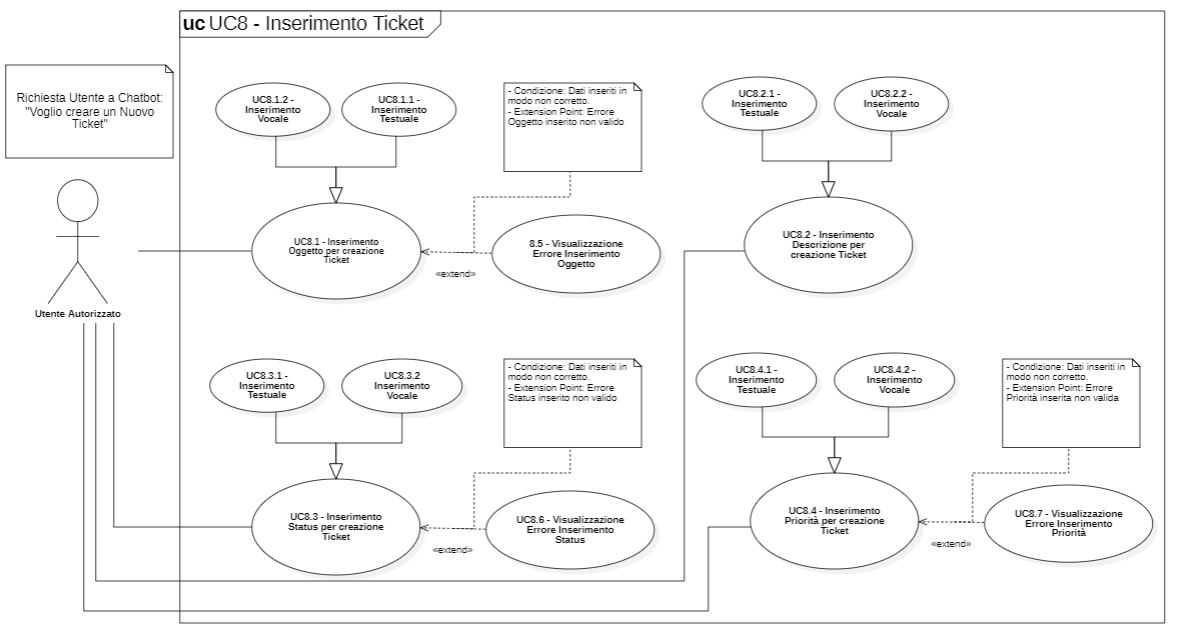
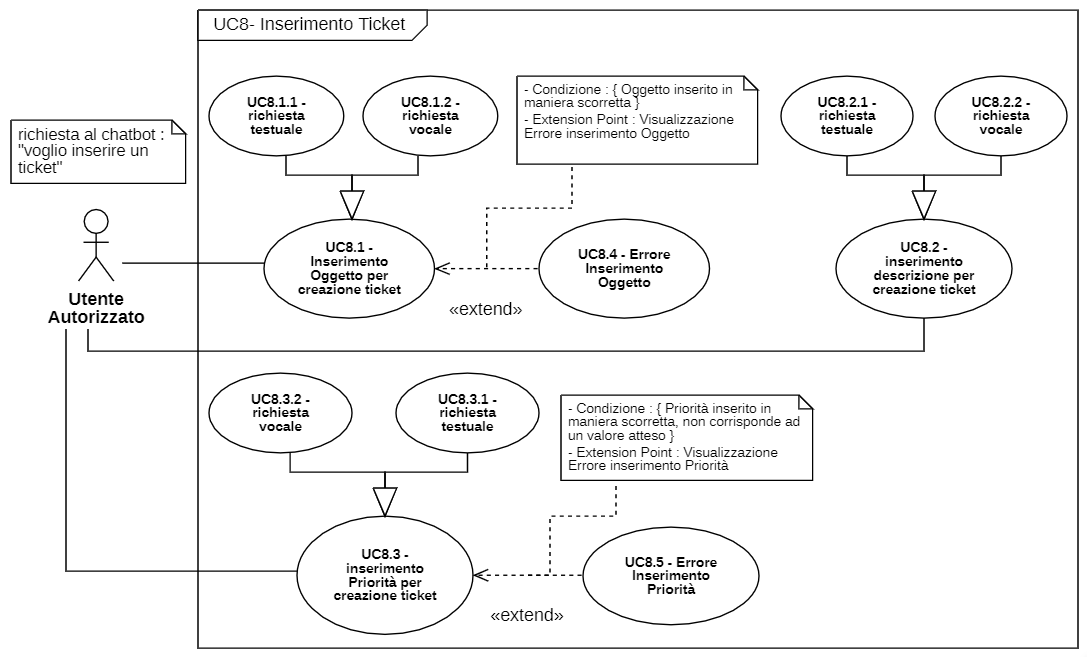
Prime Modifiche Casi d'Uso #19

diff --git a/section/casiduso_UC8.tex b/section/casiduso_UC8.tex
@@ -19,14 +19,11 @@
 		\item Utente inserisce un messaggio del tipo "Voglio creare un nuovo Ticket";
 		\item Chatbot chiede all'utente l'oggeto del \glossario{ticket}; (UC8.1)
     \item Chatbot chiede all'utente la descrizione; (UC8.2)
-		\item Chatbot chiede all'utente lo status; (UC8.3)
-		\item Chatbot chiede all'utente la priorità. (UC8.4)
+		\item Chatbot chiede all'utente la priorità. (UC8.3)
 	\end{enumerate}
-	\item \textbf{Estensioni}: \begin{itemize}
-		\item Chatbot comunica che non è in grado di interpretare il comando; (UC2)
-		\item Chatbot comunica che l'azione non è andata a buon fine. (UC10)
-	\end{itemize}
 \end{itemize}
+
+
 \subsubsection{UC8.1 - Inserimento Oggetto per creazione \glossario{ticket}}
 \begin{itemize}
 	\item \textbf{Identificativo}: UC8.1
@@ -43,9 +40,48 @@
 		\item Chatbot interagisce con l'utente: "Indicare l'oggetto del ticket";
 		\item Utente fornisce l'oggetto per la creazione del ticket tramite testo (UC8.1.1) o input vocale (UC8.1.2). 
 	\end{enumerate}
-	\item \textbf{Estensione}: Utente non ha inserito l'oggetto in maniera idonea per il chatbot. (UC8.5)
-		
+	\item \textbf{Estensione}: Utente non ha inserito l'oggetto in maniera idonea per il chatbot. (UC8.4)		
 \end{itemize}
+
+\paragraph{UC8.1.1 - Richiesta Testuale}
+\begin{itemize}
+   \item \textbf{Identificativo}: UC8.1.1
+   \item \textbf{Nome}: Richiesta testuale
+   \item \textbf{Descrizione grafica}: (approfondita in UC8)
+   \item \textbf{Attori}:
+   \begin{itemize} 
+       \item \textit{Primari}: utente autorizzato
+       \item \textit{Secondari}: non presenti
+   \end{itemize}
+       \item \textbf{Precondizione}: L'utente sta creando un ticket e gli è richiesto l'inserimento di un oggetto.
+       \item \textbf{Postcondizione}: L'utente comunica un oggetto e procede con la creazione del ticket. 
+    \item \textbf{Scenario principale}: 
+       \begin{itemize}
+           \item Il chatbot richiede l'inserimento di un oggetto;
+           \item l'utente inserisce testualmente un oggetto.
+       \end{itemize}
+\end{itemize}
+
+\paragraph{UC8.1.2 - Richiesta Vocale}
+\begin{itemize}
+   \item \textbf{Identificativo}: UC8.1.2
+   \item \textbf{Nome}: Richiesta Vocale
+   \item \textbf{Descrizione grafica}: (approfondita in UC8)
+   \item \textbf{Attori}:
+   \begin{itemize} 
+       \item \textit{Primari}: utente autorizzato
+       \item \textit{Secondari}: non presenti
+   \end{itemize}
+       \item \textbf{Precondizione}: L'utente sta creando un ticket e gli è richiesto l'inserimento di un oggetto.
+       \item \textbf{Postcondizione}: L'utente comunica un oggetto e procede con la creazione del ticket. 
+    \item \textbf{Scenario principale}: 
+       \begin{itemize}  
+        \item Il chatbot richiede l'inserimento di un oggetto;
+        \item l'utente inserisce vocalmente un oggetto.
+       \end{itemize}
+\end{itemize}
+
+
 \subsubsection{UC8.2 - Inserimento descrizione per creazione \glossario{ticket}}
 \begin{itemize}
 	\item \textbf{Identificativo}: UC8.2
@@ -63,27 +99,49 @@
 		\item Utente fornisce la descrizione per la creazione del ticket tramite testo (UC8.2.1) o input vocale (UC8.2.2).
 	\end{enumerate}
 	\end{itemize}
-\subsubsection{UC8.3 - Inserimento Status per creazione \glossario{ticket}}
+
+  \paragraph{UC8.2.1 - Richiesta Testuale}
+  \begin{itemize}
+     \item \textbf{Identificativo}: UC8.2.1
+     \item \textbf{Nome}: Richiesta testuale
+     \item \textbf{Descrizione grafica}: (approfondita in UC8)
+     \item \textbf{Attori}:
+     \begin{itemize} 
+         \item \textit{Primari}: utente autorizzato
+         \item \textit{Secondari}: non presenti
+     \end{itemize}
+         \item \textbf{Precondizione}: L'utente sta creando un ticket, ha inserito un oggetto e gli è richiesto l'inserimento di una descrizione.
+         \item \textbf{Postcondizione}: L'utente comunica una descrizione e procede con la creazione del ticket. 
+      \item \textbf{Scenario principale}: 
+         \begin{itemize}
+             \item Il chatbot richiede l'inserimento di una descrizione;
+             \item l'utente inserisce testualmente una descrizione.
+         \end{itemize}
+  \end{itemize}
+  
+  \paragraph{UC8.2.2 - Richiesta Vocale}
+  \begin{itemize}
+     \item \textbf{Identificativo}: UC8.2.2
+     \item \textbf{Nome}: Richiesta testuale
+     \item \textbf{Descrizione grafica}: (approfondita in UC8)
+     \item \textbf{Attori}:
+     \begin{itemize} 
+         \item \textit{Primari}: utente autorizzato
+         \item \textit{Secondari}: non presenti
+     \end{itemize}
+         \item \textbf{Precondizione}: L'utente sta creando un ticket, ha inserito un oggetto e gli è richiesto l'inserimento di una descrizione.
+         \item \textbf{Postcondizione}: L'utente comunica una descrizione e procede con la creazione del ticket. 
+      \item \textbf{Scenario principale}: 
+         \begin{itemize}  
+          \item Il chatbot richiede l'inserimento di una descrizione;
+          \item l'utente inserisce vocalmente una descrizione.
+         \end{itemize}
+  \end{itemize}
+
+
+  \subsubsection{UC8.3 - Inserimento priorità per creazione \glossario{ticket}}
 \begin{itemize}
 	\item \textbf{Identificativo}: UC8.3
-	\item \textbf{Nome}: Inserimento Status per creazione \glossario{ticket} 
-	\item \textbf{Attori}
-	\begin{itemize} 
-		\item \textit{Primari}: Utente autorizzato
-		\item \textit{Secondari}: Non presenti
-	\end{itemize}
-	\item \textbf{Descrizione}: L'utente sta eseguendo il procedimento di creazione di un nuovo \glossario{ticket}. Il chatbot richiede all'utente di inserire uno status.
-	\item \textbf{Precondizione}: l'utente ha comunicato al chatbot la descrizione del nuovo ticket.
-	\item \textbf{Postcondizione}: l'utente ha comunicato al chatbot lo status del nuovo ticket.
-	\item \textbf{Scenario principale}: \begin{enumerate}
-		\item Chatbot interagisce con l'utente: "Indicare lo status del ticket";
-		\item Utente fornisce lo status per la creazione del ticket tramite testo (UC8.3.1) o input vocale (UC8.3.2).
-	\end{enumerate}
-	\item \textbf{Estensione}: L'utente non ha inserito lo status in maniera idonea per il chatbot.  (UC8.6)
-\end{itemize}
-\subsubsection{UC8.4 - Inserimento priorità per creazione \glossario{ticket}}
-\begin{itemize}
-	\item \textbf{Identificativo}: UC8.4
 	\item \textbf{Nome}: Inserimento priorità per creazione \glossario{ticket}
 	\item \textbf{Attori}
 	\begin{itemize} 
@@ -91,17 +149,56 @@
 		\item \textit{Secondari}: Non presenti
 	\end{itemize}
 	\item \textbf{Descrizione}: L'utente sta eseguendo il procedimento di creazione di un nuovo \glossario{ticket}. Il chatbot richiede all'utente di assegnare una priorità.
-	\item \textbf{Precondizione}: l'utente ha comunicato al chatbot lo status del nuovo ticket.
+	\item \textbf{Precondizione}: l'utente ha comunicato al chatbot la priorità del nuovo ticket.
 	\item \textbf{Postcondizione}: l'utente ha comunicato al chatbot la priorità del nuovo ticket.
 	\item \textbf{Scenario principale}: \begin{enumerate}
 		\item Chatbot interagisce con l'utente: "Assegnare una priorità al ticket";
 		\item Utente assegna una priorità al ticket tramite testo (UC8.4.1) o input vocale (UC8.4.2).
 	\end{enumerate}
-	\item \textbf{Estensione}: L'utente non ha inserito la priorità in maniera idonea per il chatbot. (UC8.7)
+	\item \textbf{Estensione}: L'utente non ha inserito la priorità in maniera idonea per il chatbot. (UC8.5)
 \end{itemize}
-\subsubsection{UC8.5 - Visualizzazione errore inserimento oggetto}
+
+\paragraph{UC8.3.1 - Richiesta Testuale}
 \begin{itemize}
-	\item \textbf{Identificativo}: UC8.5
+   \item \textbf{Identificativo}: UC8.3.1
+   \item \textbf{Nome}: Richiesta testuale
+   \item \textbf{Descrizione grafica}: (approfondita in UC8)
+   \item \textbf{Attori}:
+   \begin{itemize} 
+       \item \textit{Primari}: utente autorizzato
+       \item \textit{Secondari}: non presenti
+   \end{itemize}
+       \item \textbf{Precondizione}: L'utente sta creando un ticket e gli è richiesto l'inserimento di una priorità.
+       \item \textbf{Postcondizione}: L'utente comunica una priorità e viene creato il ticket. 
+    \item \textbf{Scenario principale}: 
+       \begin{itemize}
+           \item Il chatbot richiede l'inserimento di una priorità;
+           \item l'utente inserisce testualmente una priorità.
+       \end{itemize}
+\end{itemize}
+
+\paragraph{UC8.3.2 - Richiesta Vocale}
+\begin{itemize}
+   \item \textbf{Identificativo}: UC8.3.2
+   \item \textbf{Nome}: Richiesta Vocale
+   \item \textbf{Descrizione grafica}: (approfondita in UC8)
+   \item \textbf{Attori}:
+   \begin{itemize} 
+       \item \textit{Primari}: utente autorizzato
+       \item \textit{Secondari}: non presenti
+   \end{itemize}
+   \item \textbf{Precondizione}: L'utente sta creando un ticket e gli è richiesto l'inserimento di una priorità.
+   \item \textbf{Postcondizione}: L'utente comunica una priorità e viene creato il ticket. 
+    \item \textbf{Scenario principale}: 
+       \begin{itemize}  
+        \item Il chatbot richiede l'inserimento di una priorità;
+        \item l'utente inserisce vocalmente una priorità.
+       \end{itemize}
+\end{itemize}
+
+\subsubsection{UC8.4 - Visualizzazione errore inserimento oggetto}
+\begin{itemize}
+	\item \textbf{Identificativo}: UC8.4
 	\item \textbf{Nome}: Visualizzazione errore inserimento oggetto 
 	\item \textbf{Attori}
 	\begin{itemize} 
@@ -115,26 +212,11 @@
 		\item Chatbot mostra all'utente che è avvenuto un errore tramite chat: "Oggetto inserito in maniera non idonea".
 		\end{enumerate}
 \end{itemize}
-\subsubsection{UC8.6 - Visualizzazione errore inserimento status}
+
+
+\subsubsection{UC8.5 - Visualizzazione errore inserimento priorità}
 \begin{itemize}
-	\item \textbf{Identificativo}: UC8.6
-	\item \textbf{Nome}: Visualizzazione errore inserimento status 
-	\item \textbf{Attori}
-	\begin{itemize} 
-		\item \textit{Primari}: Utente autorizzato
-		\item \textit{Secondari}: Non presenti
-	\end{itemize}
-	\item \textbf{Descrizione}: È avvenuto un errore nell'inserimento dello status. Il chatbot mostra l'errore all'utente.
-	\item \textbf{Precondizione}: L'utente sta eseguendo l'operazione di inserimento di un nuovo ticket. Lo status risulta essere inserito in un formato non valido. 
-	\item \textbf{Postcondizione}: Il chatbot mostra all'utente che lo status non è stato inserito in maniera idonea per il chatbot.
-	\item \textbf{Scenario principale}: 
-	\begin{enumerate}
-		\item Chatbot mostra all'utente che è avvenuto un errore tramite chat: "Status inserito in maniera non idonea". 
-	\end{enumerate}
-\end{itemize}
-\subsubsection{UC8.7 - Visualizzazione errore inserimento priorità}
-\begin{itemize}
-	\item \textbf{Identificativo}: UC8.7
+	\item \textbf{Identificativo}: UC8.5
 	\item \textbf{Nome}:  Visualizzazione errore inserimento priorità
 	\item \textbf{Attori}
 	\begin{itemize} 
@@ -148,4 +230,3 @@
 		\item Chatbot mostra all'utente che è avvenuto un errore tramite chat: "Priorità inserita in maniera non idonea".
 	\end{enumerate}
 \end{itemize}
-\newpage

diff --git a/section/casiduso_UC11.tex b/section/casiduso_UC11.tex
@@ -2,6 +2,14 @@
 \begin{itemize}
 	\item \textbf{Identificativo}: UC11
 	\item \textbf{Nome}: Annullamento Operazione
+  \item \textbf{Descrizione grafica}:
+\end{itemize}
+
+\begin{figure}[h]
+    \includegraphics[scale=1.20]{images/UC11.png} 
+    \caption{Descrizione grafica caso d'uso UC11}
+\end{figure}
+\begin{itemize}
 	\item \textbf{Attori}
 	\begin{itemize} 
 		\item \textit{Primari}: Utente autorizzato
@@ -11,7 +19,61 @@
 	\item \textbf{Precondizione}: L'utente ha richiesto un'operazione.
 	\item \textbf{Postcondizione}: Operazione non viene eseguita.
 	\item \textbf{Scenario principale}: \begin{enumerate}
-		\item Utente scrive in chat: "Annulla operazione";
+		\item Utente comunica al chatbot: "Annulla operazione";
 		\item Chatbot comunica: "Operazione annullata con successo".
 	\end{enumerate}
+  \item \textbf{Estensione}: L'operazione di annullamento non può essere eseguita. (UC11.2)
+\end{itemize}
+
+\paragraph{UC11.1.1 - Richiesta Testuale}
+\begin{itemize}
+   \item \textbf{Identificativo}: UC11.1.1
+   \item \textbf{Nome}: Richiesta testuale
+   \item \textbf{Descrizione grafica}: (approfondita in UC11)
+   \item \textbf{Attori}:
+   \begin{itemize} 
+       \item \textit{Primari}: utente autorizzato
+       \item \textit{Secondari}: non presenti
+   \end{itemize}
+       \item \textbf{Precondizione}: L'utente ha richiesto un'operazione.
+       \item \textbf{Postcondizione}: Operazione non viene eseguita. 
+    \item \textbf{Scenario principale}: 
+       \begin{itemize}
+        \item Utente scrive al chatbot: "Annulla operazione";
+        \item Chatbot risponde: "Operazione annullata con successo".
+       \end{itemize}
+\end{itemize}
+
+\paragraph{UC11.1.2 - Richiesta Vocale}
+\begin{itemize}
+   \item \textbf{Identificativo}: UC11.1.2
+   \item \textbf{Nome}: Richiesta testuale
+   \item \textbf{Descrizione grafica}: (approfondita in UC1)
+   \item \textbf{Attori}:
+   \begin{itemize} 
+       \item \textit{Primari}: utente autorizzato
+       \item \textit{Secondari}: non presenti
+   \end{itemize}
+       \item \textbf{Precondizione}: L'utente ha richiesto un'operazione.
+       \item \textbf{Postcondizione}: Operazione non viene eseguita. 
+    \item \textbf{Scenario principale}: 
+       \begin{itemize}
+        \item Utente comunica vocalmente al chatbot: "Annulla operazione";
+        \item Chatbot comunica: "Operazione annullata con successo".
+       \end{itemize}
+\end{itemize}
+
+\subsubsection{UC11.2 - Errore Annullamento Operazione}
+\begin{itemize}
+	\item \textbf{Identificativo}: UC11.2
+	\item \textbf{Nome}: Errore Annullamento Operazione 
+	\item \textbf{Attori}
+	\begin{itemize} 
+		\item \textit{Primari}: Utente autorizzato
+		\item \textit{Secondari}: Non presenti
+	\end{itemize}
+	\item \textbf{Descrizione}: L'utente vuole annullare un'operazione.
+	\item \textbf{Precondizione}: L'utente richiede di annullare un'operazione.
+	\item \textbf{Postcondizione}: Viene visualizzato un errore di impossibilità di annullare l'operazione.
+	\item \textbf{Scenario principale}: Utente comunica la volontà di annullare un'operazione ma questa viene negata.
 \end{itemize}

diff --git a/section/casiduso_UC10.tex b/section/casiduso_UC10.tex
@@ -1,16 +1,1 @@
 \subsection{UC10 - Visualizzazione errore impossibile completare l'azione}
-\begin{itemize}
-	\item \textbf{Identificativo}: UC10
-	\item \textbf{Nome}:  Visualizzazione errore impossibile completare l'azione
-	\item \textbf{Attori}
-	\begin{itemize} 
-		\item \textit{Primari}: Utente autorizzato
-		\item \textit{Secondari}: Non presenti
-	\end{itemize}
-	\item \textbf{Descrizione}: Il chatbot segnala l'impossibilità di completare un'azione all'utente.
-	\item \textbf{Precondizione}: L'utente richiede al chatbot di eseguire un'azione, la quale non andrà a buon fine.
-	\item \textbf{Postcondizione}: Il chatbot mostra all'utente l'impossibilità di compiere l'azione richiesta.
-	\item \textbf{Scenario principale}: \begin{enumerate}
-		\item Chatbot comunica all'utente: "Impossibilità a compiere l'azione a causa di un errore sconosciuto".
-	\end{enumerate}
-\end{itemize}

diff --git a/section/casiduso_UC21.tex b/section/casiduso_UC21.tex
@@ -1,16 +1,1 @@
 \subsection{UC21 - Visualizzazione errore progetto non esistente}
-\begin{itemize}
-	\item \textbf{Identificativo}: UC21
-	\item \textbf{Nome}: Visualizzazione errore progetto non esistente
-	\item \textbf{Attori}
-	\begin{itemize} 
-		\item \textit{Primari}: Utente autorizzato
-		\item \textit{Secondari}: Non presenti
-	\end{itemize}
-	\item \textbf{Descrizione}: L'utente inserisce i dati per inserimento dell'\glossario{attività} nel \glossario{sistema EMT} aziendale.
-	\item \textbf{Precondizione}: L'utente ha inserito correttamente tutti i dati per effettuare l'inserimento.
-	\item \textbf{Postcondizione}: Il chatbot invia un messaggio di errore per progetto inesistente.
-	\item \textbf{Scenario principale}: \begin{enumerate}
-		\item Chatbot comunica l'errore: "Progetto Inesistente".
-	\end{enumerate}
-\end{itemize}

diff --git a/section/casiduso_UC9.tex b/section/casiduso_UC9.tex
@@ -1,18 +1,1 @@
 \subsection{UC9 - Visualizzazione Conferma Esecuzione Operazione}
-\begin{itemize}
-	\item \textbf{Identificativo}: UC9
-	\item \textbf{Nome}: Visualizzazione Conferma Esecuzione Operazione
-	\item \textbf{Attori}
-	\begin{itemize} 
-		\item \textit{Primari}: Utente autorizzato
-	    \item \textit{Secondari}: Non presenti
-	\end{itemize}
-	\item \textbf{Descrizione}: l'utente ha compiuto un'azione, la quale è andata a buon fine, ed il chatbot comunica l'esito positivo.
-	\item \textbf{Precondizione}: l'azione compiuta dall'utente è andata a buon fine.
-	\item \textbf{Postcondizione}: il chatbot comunica l'esito all'utente.
-	\item \textbf{Scenario principale}: il chatbot comunica all'utente: \begin{center}
-		"Operazione avvenuta con Successo".
-	\end{center}
-\end{itemize}
-
-

diff --git a/section/casiduso_UC20.tex b/section/casiduso_UC20.tex
@@ -1,16 +1,1 @@
 \subsection{UC20 - Visualizzazione errore sede non trovata}
-\begin{itemize}
-	\item \textbf{Identificativo}: UC20
-	\item \textbf{Nome}:  Visualizzazione errore sede non trovata
-	\item \textbf{Attori}
-	\begin{itemize} 
-		\item \textit{Primari}: Utente autorizzato
-		\item \textit{Secondari}: Non presenti
-	\end{itemize}
-	\item \textbf{Descrizione}: L'utente inserisce i dati per la registrazione della presenza in sede.
-	\item \textbf{Precondizione}: L'utente ha inserito correttamente tutti i dati per effettuare il \glossario{check-in}.
-	\item \textbf{Postcondizione}: Il chatbot invia un messaggio di errore per sede non trovata. 
-	\item \textbf{Scenario principale}: \begin{enumerate}
-		\item Chatbot comunica l'errore: "Sede non trovata".
-	\end{enumerate}
-\end{itemize}

diff --git a/section/casiduso_UC12.tex b/section/casiduso_UC12.tex
@@ -1,16 +1,1 @@
 \subsection{UC12 - Visualizzazione errore operazione non consentita}
-\begin{itemize}
-	\item \textbf{Identificativo}: UC12
-	\item \textbf{Nome}:  Visualizzazione errore operazione non consentita
-	\item \textbf{Attori}
-	\begin{itemize} 
-		\item \textit{Primari}: Utente autorizzato
-		\item \textit{Secondari}: Non presenti
-	\end{itemize}
-	\item \textbf{Descrizione}: L'utente tenta di effettuare un'operazione non consentita.
-	\item \textbf{Precondizione}:  L'utente richiede un'operazione non accessibile.
-	\item \textbf{Postcondizione}: Chatbot comunica impossibilità di esecuzione.
-	\item \textbf{Scenario principale}: \begin{enumerate}
-		\item Chatbot comunica: "Impossibilità di accedere a questa funzione".
-	\end{enumerate}
-\end{itemize}
